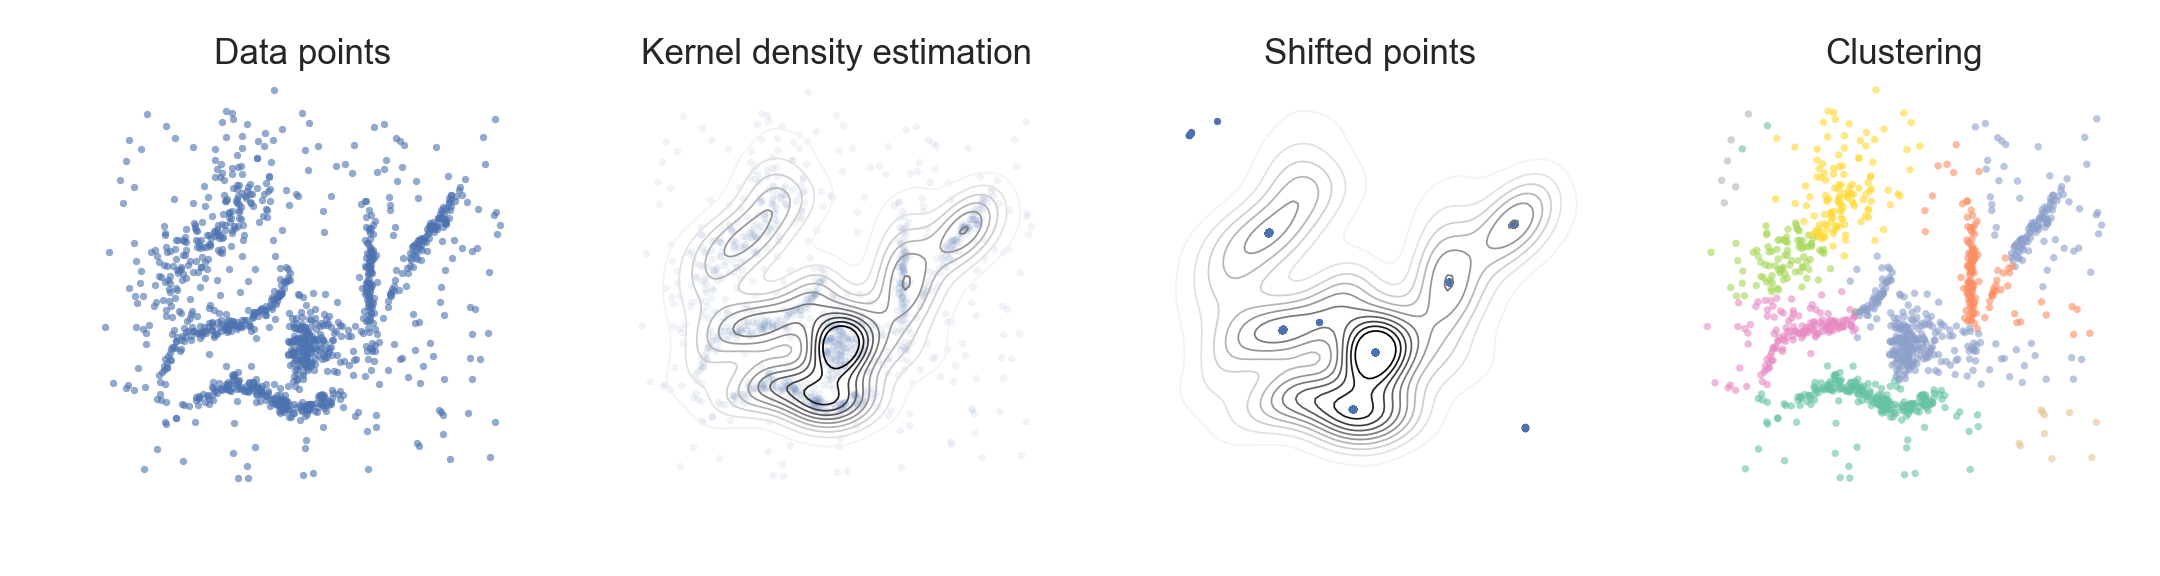
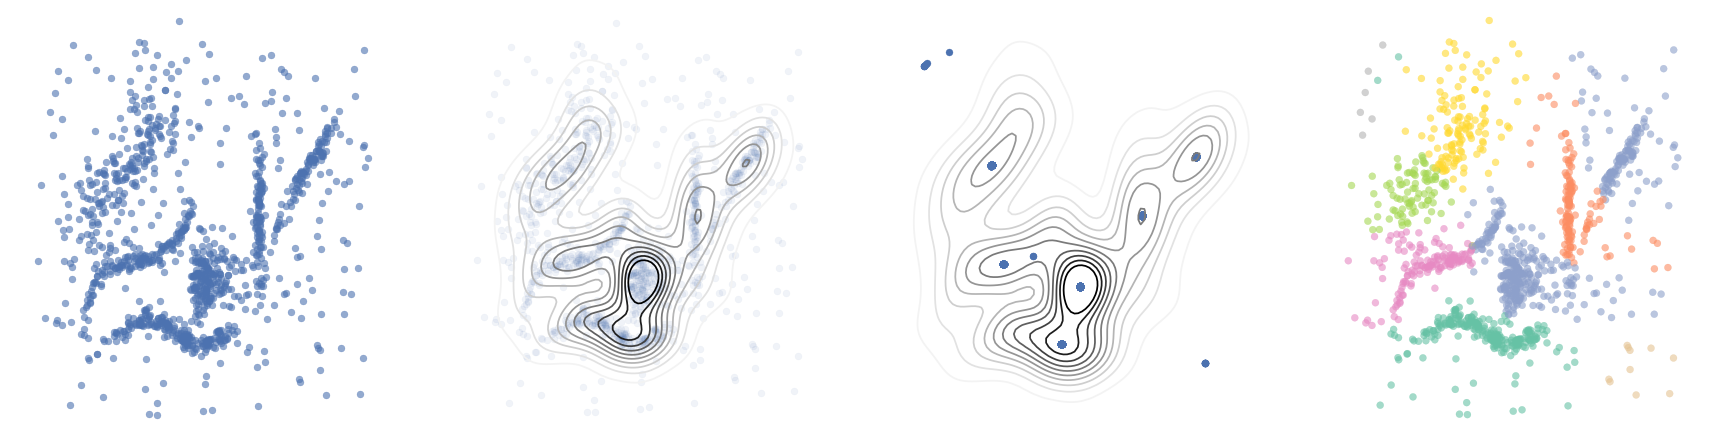
update README.md

diff --git a/README.md b/README.md
@@ -1,4 +1,4 @@
-
+
 ## Clustertools
 
 ### Overview
@@ -7,7 +7,7 @@ A self-contained, scikit-learn API-oriented Python package supporting a variety 
 
 Developed as part of "Mathematical aspects in Machine Learning", Freie Universität Berlin, summer semester 2017.
 
-![](https://raw.githubusercontent.com/clustertoolsgroup/clustertools_project/master/images/meanshift_examples.png)
+![](https://raw.githubusercontent.com/clustertoolsgroup/clustertools_project/master/images/meanshift.png)
 
 ### Contents
 This package provides the following functionality:
